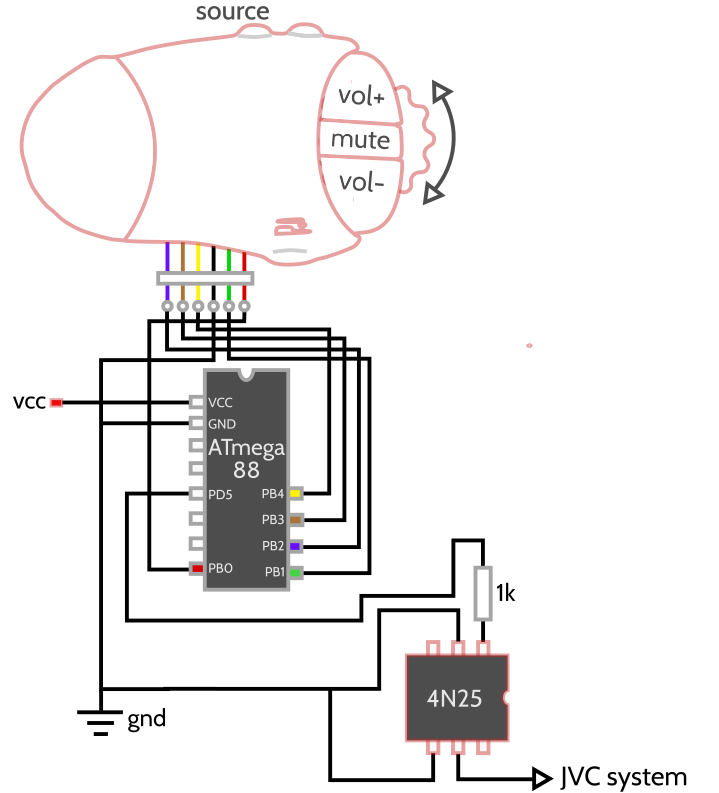
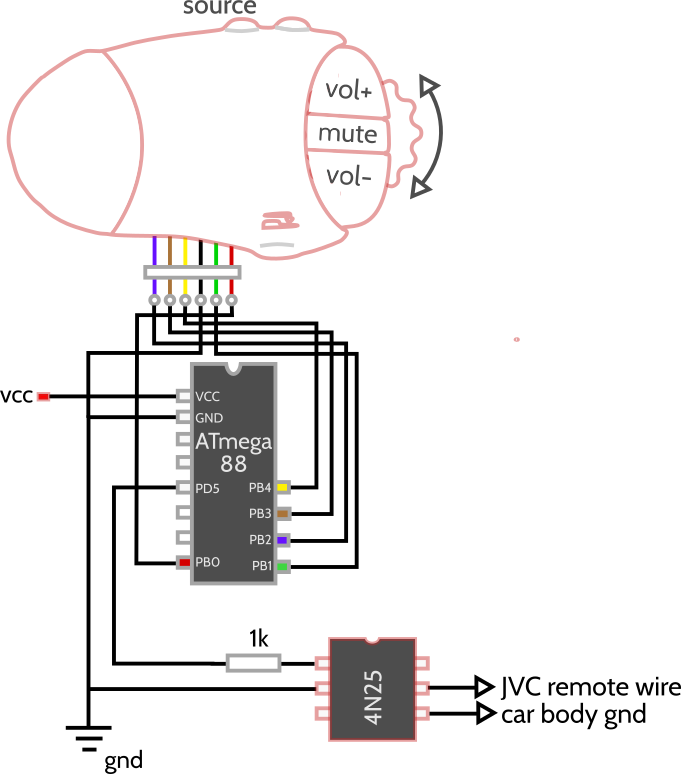
added SOURCE_CYCLE and EQUALIZER_CYCLE actions to atmega version, edited circuit

Changed region(s): [[0.0, 0.3101, 1.0, 1.0], [0.0, 0.0, 0.6476, 0.3411]]

diff --git a/main_attiny.c b/main_attiny.c
@@ -11,7 +11,6 @@
 #define REMOTEDDR DDRB
 #define REMOTEPIN PINB
 #define REMOTE_RED PB0
-#define REMOTE_GREEN PB1
 #define REMOTE_BLUE PB2
 #define REMOTE_BROWN PB3
 #define REMOTE_YELLOW PB4
@@ -29,12 +28,10 @@ void setupPWM () ;
 void stopPWM () ;
 void check_inputs_fn(void);
 
-//history variables for each button, used for debouncing
 uint8_t mute_history=0;
 uint8_t volp_history=0;
 uint8_t volm_history=0;
-uint8_t src_history=0;
-uint8_t load_history=0;
+uint8_t src1_history=0;
 
 //wheel switch
 const uint8_t PRSJ=0x00;
@@ -51,20 +48,19 @@ const uint8_t JVC_VOLP = 0x21;
 const uint8_t JVC_VOLM = 0xA1;
 const uint8_t JVC_MUTE = 0x71;
 const uint8_t JVC_SRC1 = 0x11;
-const uint8_t JVC_EQUALIZER = 0xB1;
 const uint8_t JVC_F = 0xC9;
 const uint8_t JVC_R = 0x49;
 
 
 void setup() {
-	DDRD |= _BV(PD5);//PD5 (OC0B) en sortie,
+	DDRB |= _BV(PB1);//PB1 en sortie,
 
 	DDRB &=~ _BV(REMOTE_BROWN);
 	REMOTEPORT|= _BV(REMOTE_BROWN);//pull up sur PB3 (marron, contact commun molette)
 	sei();
 	//AVR Manual: WDT Timeout is 4 or 64 ms
 	//watchdog configuration
-	WDTCSR |= (1<<WDIE);//generate interrupt after each time out
+	WDTCR |= (1<<WDIE);//generate interrupt after each time out
 	//TCNT0=0;
 }
 
@@ -79,9 +75,9 @@ void stopPWM () {
 }
 
 void preamble(){
-	PORTD |=_BV(PD5);
+	PORTB |=_BV(PB1);
 	_delay_us(8600);
-	PORTD &=~_BV(PD5);
+	PORTB &=~_BV(PB1);
 	_delay_us(3100);
 }
 
@@ -90,16 +86,17 @@ void sendCode (uint16_t code) {
 
 	OCR0A=0;
 	OCR0B=0;
-	do ; while ((TIFR0 & 1<<OCF0B) == 0);
-	TIFR0 = 1<<OCF0B;
+	do ; while ((TIFR & 1<<OCF0B) == 0);
+	TIFR = 1<<OCF0B;
 
 	OCR0A=0;
 	OCR0B=0;
-	do ; while ((TIFR0 & 1<<OCF0B) == 0);
-	TIFR0 = 1<<OCF0B;
+	do ; while ((TIFR & 1<<OCF0B) == 0);
+	TIFR = 1<<OCF0B;
 
 	for (uint16_t Bit=0x8000;Bit;Bit=Bit>>1){
-		if (code & Bit) {
+		//if (code & (1<<Bit)) {
+			if (code & Bit) {
 			OCR0A=255;
 			OCR0B=80;
 		}
@@ -110,15 +107,15 @@ void sendCode (uint16_t code) {
 		//wait for TIFR:OCF0B==1
 		//The OCF0B bit is set when a Compare Match occurs between the Timer/Counter
 		//and the data in OCR0B
-		do ; while ((TIFR0 & 1<<OCF0B) == 0);
+		do ; while ((TIFR & 1<<OCF0B) == 0);
 		//clear OCF0B by writing a 1
-		TIFR0 = 1<<OCF0B;
+		TIFR = 1<<OCF0B;
 	}
 	//stop bit (short pulse)
 	OCR0A=130;
 	OCR0B=80;
-	do ; while ((TIFR0 & 1<<OCF0B) == 0);
-	TIFR0 = 1<<OCF0B;
+	do ; while ((TIFR & 1<<OCF0B) == 0);
+	TIFR = 1<<OCF0B;
 
 }
 
@@ -179,6 +176,7 @@ void updateWheel(uint8_t poscode){
 
 		default:turnDirection=0;//in doubt, do nothing
 		}
+		//emit=turnDirection;;
 	}
 }
 
@@ -188,6 +186,7 @@ void updateWheel(uint8_t poscode){
  */
 uint8_t read_btn(uint8_t  curbtn){
 	uint8_t ret=0x00;
+	uint8_t rotPosPRSV=PRSV;//toggled to 0 if wheel switch in PRSJ or PRSB position
 	if (curbtn==0x01){
 		//poll Mute
 		REMOTEDDR &=~_BV(REMOTE_BLUE);//PB2 en entree
@@ -211,59 +210,39 @@ uint8_t read_btn(uint8_t  curbtn){
 		nop();nop();nop();nop(); //nops make sure the ports have time to settle to their new state before testing
 		ret= ((REMOTEPIN & (1<<REMOTE_YELLOW)) == 0);
 	} else if (curbtn==0x03){
-		//poll Source 1 and Source 2 (either yellow-ground or green-ground, read yellow)
+		//poll Source 1
 		REMOTEDDR |=_BV(REMOTE_RED);
-		REMOTEPORT |=_BV(REMOTE_RED);//PB0(red) up to distinguish with vol-
-
-		REMOTEDDR &=~_BV(REMOTE_GREEN);
-		REMOTEPORT |=_BV(REMOTE_GREEN);//pull up sur PB1(green)
-
+		REMOTEPORT |=_BV(REMOTE_RED);//rouge a 1
 		REMOTEDDR &=~_BV(REMOTE_YELLOW);
-		REMOTEPORT |=_BV(REMOTE_YELLOW);//pull up sur PB3(yellow)
+		REMOTEPORT |=~_BV(REMOTE_YELLOW);//inchangé
 		nop();nop();nop();nop();
-		ret= (( (REMOTEPIN & (1<<REMOTE_YELLOW)) == 0)|((REMOTEPIN & (1<<REMOTE_GREEN)) == 0)) ;
-	} else if (curbtn==0x05){
-		//bouton load (green-red)
-		REMOTEDDR |=_BV(REMOTE_GREEN);//PB1 en sortie
-		REMOTEPORT &=~_BV(REMOTE_GREEN);//PB1 a 0
-		REMOTEDDR &=~_BV(REMOTE_RED);//PB0 en entree
-		REMOTEPORT |=_BV(REMOTE_RED);//pull up sur PB0
-		nop();nop();nop();nop();
-		ret= ( (REMOTEPIN & (1<<REMOTE_RED)) == 0 );//lecture de PB0
+		ret= ((REMOTEPIN & (1<<REMOTE_YELLOW)) == 0);//si rouge a 1 et yellow a 0 -> yellow a la masse-> source 1 presse
 	}
 
-	//PB1,PB2 and PB4 all become outputs
+	//test if wheel in brown-yellow position (PRSJ)
 	REMOTEDDR |=_BV(REMOTE_YELLOW);//PB4 en sortie
 	REMOTEDDR |=_BV(REMOTE_BLUE);//PB2 en sortie
-	REMOTEDDR |=_BV(REMOTE_GREEN);//PB1 en sortie
-	//test if wheel in brown-yellow position (PRSJ)
-
 	REMOTEPORT &=~_BV(REMOTE_YELLOW);//PB4 a 0
-	REMOTEPORT |=_BV(REMOTE_GREEN);//PB1 a 1
 	REMOTEPORT |=_BV(REMOTE_BLUE);//PB2 a 1
 	nop();nop();
 	if ((REMOTEPIN & (1<<REMOTE_BROWN)) == 0 ){
 		updateWheel(PRSJ);
+		rotPosPRSV=0;
 	}
 
 	//test if wheel in brown-blue position (PRSB)
 	REMOTEPORT &=~_BV(REMOTE_BLUE);//PB2 a 0
-	REMOTEPORT |=_BV(REMOTE_GREEN);//PB1 a 1
 	REMOTEPORT |=_BV(REMOTE_YELLOW);//PB4 a 1
 	nop();nop();
 	if ((REMOTEPIN & (1<<REMOTE_BROWN)) == 0 ){
 		updateWheel(PRSB);
+		rotPosPRSV=0;
 	}
 
-	//test if wheel in brown-green position (PRSV)
-	REMOTEPORT &=~_BV(REMOTE_GREEN);//PB1 a 0
-	REMOTEPORT |=_BV(REMOTE_YELLOW);//PB4 a 1
-	REMOTEPORT |=_BV(REMOTE_BLUE);//PB2 a 1
-	nop();nop();
-	if ((REMOTEPIN & (1<<REMOTE_BROWN)) == 0 ){
+	//if wheel not in PRSB or PRSJ position we assume it's on the third position
+	if (rotPosPRSV==PRSV){
 		updateWheel(PRSV);
 	}
-
 	return ret;
 }
 
@@ -310,7 +289,7 @@ int main() {
 				transmit(JVC_ADDRESS,dir);
 			}
 			cli();	//Not sure if this is truly necessary.  We might be able to just
-			//Treat check_inputs as a boolean (and change the ISR respectively)
+				//Treat check_inputs as a boolean (and change the ISR respectively)
 			check_inputs = check_inputs == 0 ? 0 : check_inputs-1;
 			sei();
 		}
@@ -322,26 +301,22 @@ int main() {
 
 void check_inputs_fn(void)
 {
-	if (debounce(&mute_history,0x01)==1){
-		emit=JVC_MUTE;
-	}
-
 	if (debounce(&volp_history,0x02)==1){
 		emit=JVC_VOLP;
+	}
+
+	if (debounce(&mute_history,0x01)==1){
+		emit=JVC_MUTE;
 	}
 
 	if (debounce(&volm_history,0x04)==1){
 		emit=JVC_VOLM;
 	}
-
-	if (debounce(&src_history,0x03)==1){
+/*
+	if (debounce(&src1_history,0x03)==1){
 		emit=JVC_SRC1;
 	}
-
-	if (debounce(&load_history,0x05)==1){
-		emit=JVC_EQUALIZER;
-	}
-
+*/
 }
 
 ISR (WDT_vect){
